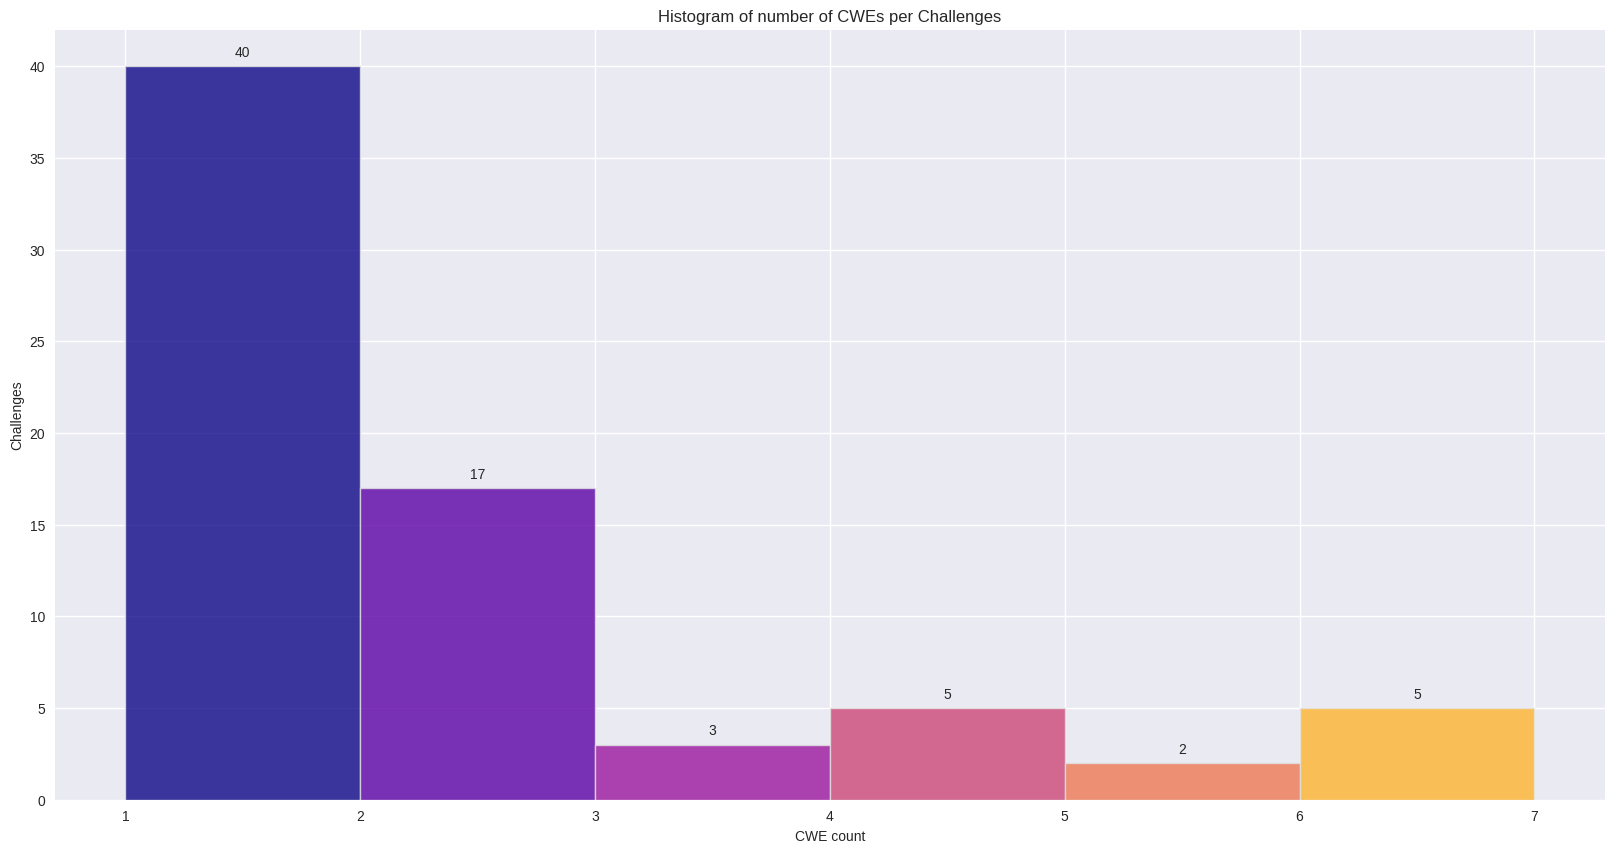
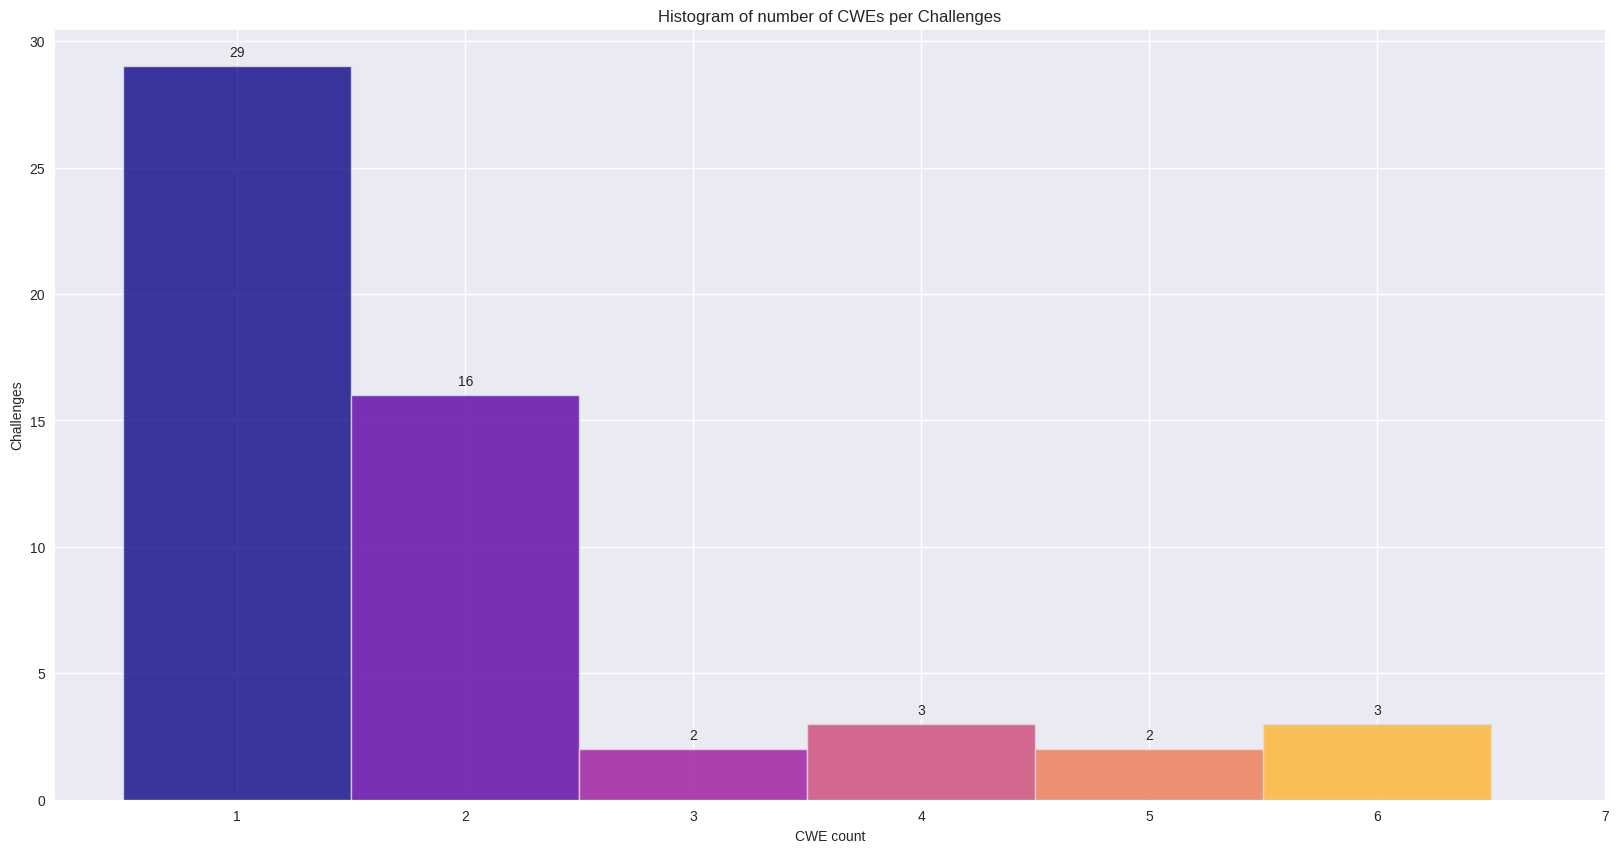
new plots; fix failing povs that pass; custom tests timeout

diff --git a/src/tasks/check.py b/src/tasks/check.py
@@ -17,7 +17,8 @@ from operations.simple.genpolls import GenPolls
 
 
 class Check(Task):
-    def __init__(self, timeout: int, genpolls: bool, sanity: bool, suppress_assertion:bool, count: int, **kwargs):
+    def __init__(self, timeout: int, genpolls: bool, sanity: bool, suppress_assertion: bool, count: int,
+                 keep: bool = False, **kwargs):
         super().__init__(**kwargs)
         self.current = None
         self.working_dir = None
@@ -27,6 +28,7 @@ class Check(Task):
         self.count = count
         self.timeout = timeout
         self.ui = CheckUI()
+        self.keep = keep
 
     def __call__(self):
         if not self.challenges:
@@ -40,19 +42,20 @@ class Check(Task):
                 self.current = challenge
                 self.ui(challenge)
                 self.working_dir = f"/tmp/check_{self.current}"
+                self.log_file = Path(self.working_dir, "check.log")
                 self.check()
                 os.system('clear')
                 self.ui.print()
+                self.save_metadata(self.global_metadata)
         except Exception as e:
-            self.dispose()
+            if not self.keep:
+                self.dispose()
             self.log_file = Path("check_exception.log")
             self.status(traceback.format_exc(), err=True)
-        finally:
-            if self.sanity:
-                self.save_metadata(self.global_metadata)
 
     def dispose(self):
         os.system(f"rm -rf {self.working_dir}")
+        self.log_file = None
         self.status("Deleted temporary files generated", bold=True)
         # os.system('clear')
 
@@ -70,7 +73,8 @@ class Check(Task):
         else:
             self.ui.passed()
 
-        self.dispose()
+        if not self.keep:
+            self.dispose()
 
     def check_genpolls(self):
         genpolls = GenPolls(name="genpolls", configs=self.configs, challenge=self.current, count=self.count)
@@ -104,7 +108,8 @@ class Check(Task):
 
     def check_compile(self):
         compile_cmd = compile.Compile(name="compile", configs=self.configs, working_directory=self.working_dir,
-                                      challenge=self.current, inst_files=None, fix_files=None, exit_err=False)
+                                      challenge=self.current, inst_files=None, fix_files=None, exit_err=False,
+                                      log_file=self.log_file)
         compile_cmd.verbose = True
         out, err = compile_cmd()
 
@@ -118,14 +123,16 @@ class Check(Task):
 
     def check_test(self):
         self.status(f"Testing with timeout {self.timeout}.")
-        test_cmd = test.Test(name="test", configs=self.configs, working_directory=self.working_dir, cores_path=True,
-                             challenge=self.current, write_fail=True, timeout=self.timeout)
+        test_cmd = test.Test(name="test", configs=self.configs, working_directory=self.working_dir,
+                             challenge=self.current, timeout=self.timeout, log_file=self.log_file, neg_pov=False)
 
         test_outcome = test_cmd(save=True)
         neg_fails, passing, fails = [], [], []
 
         for test_name, test_result in test_outcome.items():
-            if not test_result.passed:
+            self.global_metadata[self.current]["durations"][test_name] = test_result.duration
+
+            if test_result.passed == 0 and test_result.code != 0:
                 fails.append(f"{test_name} {test_result.passed}")
                 if test_name.startswith('n'):
                     neg_fails.append(test_name)
@@ -176,6 +183,7 @@ def check_args(input_parser):
     input_parser.add_argument('--timeout', type=int, default=60, help='The timeout for tests in seconds.')
     input_parser.add_argument('--count', type=int, default=10, help='Number of polls to generate.')
     input_parser.add_argument('--genpolls', action='store_true', help='Flag for enabling polls generation.')
+    input_parser.add_argument('--keep', action='store_true', help='Keeps the files generated.')
     input_parser.add_argument('-sa', '--suppress_assertion', action='store_true',
                               help='Flag for suppressing assertion errors during polls generation.')
     input_parser.add_argument('--sanity', action='store_true',

diff --git a/src/utils/test_result.py b/src/utils/test_result.py
@@ -1,8 +1,8 @@
 import re
 
-pid_pattern = r"^# pid (\d{4,7})$"
-polls_failed_pattern = r"^# polls failed: (\d{1,4})$"
-pid_debug_pattern = r"^# \[DEBUG\] pid: (\d{1,7}), sig: (\d{1,2})$"
+pid_pattern = "# pid (\d{4,7})"
+polls_failed_pattern = "# polls failed: (\d{1,4})"
+pid_debug_pattern = "# \[DEBUG\] pid: (\d{1,7}), sig: (\d{1,2})"
 ## total tests failed: 1
 codes_error = {
     0: None,
@@ -11,22 +11,24 @@ codes_error = {
     3: "WARNING: test(s) timed out",
     4: "WARNING: Unknown behavior",
     5: "WARNING: process received signal ",
-    6: "WARNING: polls failed "
+    6: "WARNING: polls failed ",
+    7: "WARNING: pov should have cored, and did not"
 }
 
 
 class TestResult:
-    def __init__(self, result: str, total: int, is_pov: bool):
+    def __init__(self, result: str, total: int, is_pov: bool, duration: int):
         self.result = result
         self.total = total
         self.is_pov = is_pov
+        self.duration = duration
         self.passed = 0
         self.code = None
         self.error = None
         self.pids = []
         self.sig = 0
         self.polls_failed = 0
-        self._get_pids()
+        self._get_pids_sig()
         self()
 
     def __call__(self):
@@ -37,13 +39,9 @@ class TestResult:
         if 'timed out' in self.result:
             self.code = 3
 
-        elif self.polls_failed > 0:
+        elif not self.is_pov and self.polls_failed > 0:
             self.code = 6
-            codes_error[self.code] = codes_error[self.code] + str(self.polls_failed)
-
-        elif self.is_pov and not self.is_sig():
-            self.code = 5
-            codes_error[self.code] = codes_error[self.code] + str(self.sig)
+            codes_error[self.code] = codes_error[self.code] + str(self.polls_failed) + "\n"
 
         elif 'not ok - pov did not negotiate' in self.result:
             self.code = 2
@@ -60,26 +58,35 @@ class TestResult:
 
             if self.is_pov:
                 self.passed ^= 1
+
+                if self.is_sig() and self.passed:
+                    self.passed = 0
+
+                    if 'should have cored, and did not' in self.result:
+                        self.code = 7
+                    else:
+                        self.code = 5
+                        codes_error[self.code] = codes_error[self.code] + str(self.sig) + "\n"
         else:
             self.code = 4
 
         self.error = codes_error[self.code]
 
-    def _get_pids(self):
-        for line in self.result.splitlines():
-            match = re.match(pid_debug_pattern, line)
+    def _get_pids_sig(self):
+        match = re.search(pid_debug_pattern, self.result)
+
+        if match:
+            self.pids.append(match.group(1))
+            self.sig = int(match.group(2))
+        else:
+            match = re.search(pid_pattern, self.result)
             if match:
                 self.pids.append(match.group(1))
-                self.sig = int(match.group(2))
-            else:
-                match = re.match(pid_pattern, line)
-                if match:
-                    self.pids.append(match.group(1))
 
-            match = re.match(polls_failed_pattern, line)
+        match = re.search(polls_failed_pattern, self.result)
 
-            if match:
-                self.polls_failed = int(match.group(1))
+        if match:
+            self.polls_failed = int(match.group(1))
 
     def is_sig(self):
         # checks for the signals SIGSEGV, SIGILL, or SIGBUS

diff --git a/src/operations/test.py b/src/operations/test.py
@@ -1,6 +1,7 @@
 #!/usr/bin/env python3
 import os
 import binascii
+import time
 
 from os import listdir
 from pathlib import Path
@@ -53,8 +54,11 @@ class Test(Operation):
 
         for test in self.tests:
             self._set_test(test)
+            start = time.time()
             self._run_test()
-            self._process_result()
+            end = time.time()
+            difference = int(end - start)
+            self._process_result(duration=difference)
             self._process_flags()
 
         if save:
@@ -94,8 +98,8 @@ class Test(Operation):
         if self.error:
             self.status(self.error, err=True)
 
-    def _process_result(self, total: int = 1):
-        self.results[self.current_test] = TestResult(self.output, total, self.is_pov)
+    def _process_result(self, total: int = 1, duration: int = 0):
+        self.results[self.current_test] = TestResult(self.output, total, self.is_pov, duration)
         error = self.results[self.current_test].error
 
         if error:
@@ -134,9 +138,11 @@ class Test(Operation):
             bin_names = ['{}_{}'.format(self.challenge.name, i + 1) for i in range(len(cb_dirs))]
         else:
             bin_names = [self.challenge.name]
-
+        duration = self.get_test_duration()
+        # use timeout or duration from sanity check
+        timeout = str(self.test_timeout) if duration is None else str(duration + self.configs.margin)
         cb_cmd = [str(self.get_tools().test), '--directory', str(self.build), '--xml', str(self.test_file),
-                  '--concurrent', '1', '--debug', '--timeout', str(self.test_timeout), '--negotiate_seed',
+                  '--concurrent', '1', '--debug', '--timeout', timeout, '--negotiate_seed',
                   '--cb'] + bin_names
 
         if self.port is not None:
@@ -151,6 +157,11 @@ class Test(Operation):
 
         return cb_cmd
 
+    def get_test_duration(self):
+        if self.current_test in self.global_metadata[self.challenge.name]["durations"]:
+            return self.global_metadata[self.challenge.name]["durations"][self.current_test]
+        return None
+
     def write_result(self):
         out_file = self.add_prefix(self.out_file)
         if not self.write_fail and not self.results[self.current_test].passed:
@@ -159,8 +170,9 @@ class Test(Operation):
             of.write(f"{self.current_test} {self.results[self.current_test].passed}\n")
 
     def outcome(self):
-        with self.stats.open(mode="a") as s:
-            s.write(f"{self.current_test} {self.results[self.current_test].passed} {self.results[self.current_test].code}\n")
+        with self.stats.open(mode="a") as s, (self.stats.parent / "track.txt").open(mode="r") as tf:
+            cid = tf.read().split()[0]
+            s.write(f"{self.current_test} {self.results[self.current_test].passed} {self.results[self.current_test].code} {cid}\n")
 
     def __str__(self):
         test_cmd_str = " --tests " + ' '.join(self.tests)

diff --git a/src/operations/make.py b/src/operations/make.py
@@ -3,6 +3,8 @@
 from json import loads
 from os import environ
 from pathlib import Path
+from binascii import b2a_hex
+from os import urandom
 
 from utils.structs import CompileCommand
 from core.operation import Operation
@@ -26,6 +28,11 @@ class Make(Operation):
         self.stats = self.working_dir / Path("stats", "compile.txt")
         self.stats.parent.mkdir(parents=True, exist_ok=True)
         self.link_file = self.cmake / Path("link.txt")
+        self.cid = b2a_hex(urandom(4))
+
+        with (self.stats.parent / "track.txt").open(mode="w") as tf:
+            tf.write(self.cid.decode())
+
         #self.log(str(self))
 
     def _set_cmake_opts(self):
@@ -122,7 +129,7 @@ class Make(Operation):
 
     def outcome(self, result: int, msg: str = None):
         with self.stats.open(mode="a") as s:
-            s.write(f"{result}\n")
+            s.write(f"{result} {self.cid.decode()}\n")
 
             if result == 1:
                 self.status(msg, err=True)

diff --git a/src/config.py b/src/config.py
@@ -19,10 +19,11 @@ class Configuration:
     plots: Path
     metadata: Path
     tests_timeout: str  # In seconds
+    margin: int     # In seconds
 
     def validate(self):
         return self.src.exists() and self.plots.exists() and self.lib_paths.validate() and self.metadata.exists() \
-               and self.tools.validate() and int(self.tests_timeout) > 0
+               and self.tools.validate() and int(self.tests_timeout) > 0 and int(self.margin) > 0
 
 
 lib_path = Path(ROOT_DIR) / Path("lib")
@@ -46,4 +47,5 @@ configuration = Configuration(root=Path(ROOT_DIR),
                               tools=tools,
                               plots=Path(ROOT_DIR) / Path('plots'),
                               metadata=metadata,
-                              tests_timeout="10")
+                              tests_timeout="60",
+                              margin=5)

diff --git a/src/init.py b/src/init.py
@@ -27,10 +27,10 @@ else:
 
         metadata[challenge_name] = {'excluded': False, "excluded_povs": [], 'lines': manifest.total_lines,
                                     'vuln_lines': manifest.vuln_lines, 'patch_lines': manifest.patch_lines,
-                                    'main_cwe': main_cwe}
+                                    'main_cwe': main_cwe, 'durations': {}}
         progress(i, challenges_count, challenge_name)
 
-    with configs.metadata.open(mode='w') as mf:
-        json.dump(metadata, mf, indent=2)
+        with configs.metadata.open(mode='w') as mf:
+            json.dump(metadata, mf, indent=2)
 
     TermPrint.print_pass('Benchmark initialized')

diff --git a/src/utils/plotter.py b/src/utils/plotter.py
@@ -63,7 +63,7 @@ class Plotter:
                   binwidth: float = 1):
         fig, ax = plt.subplots(figsize=(20, 10))
         bins = np.arange(min(data), max(data) + binwidth, binwidth)
-        n, bins, patches = ax.hist(data, bins=bins, facecolor='#2ab0ff', edgecolor='#e0e0e0', linewidth=1, alpha=0.8)
+        n, bins, patches = ax.hist(data, bins=bins, facecolor='#2ab0ff', edgecolor='#e0e0e0', rwidth=1, linewidth=1, alpha=0.8, align='left')
         colors = color_map(len(patches), cmap)
         # Good old loop. Choose colormap of your taste
         for i, color in enumerate(colors):
